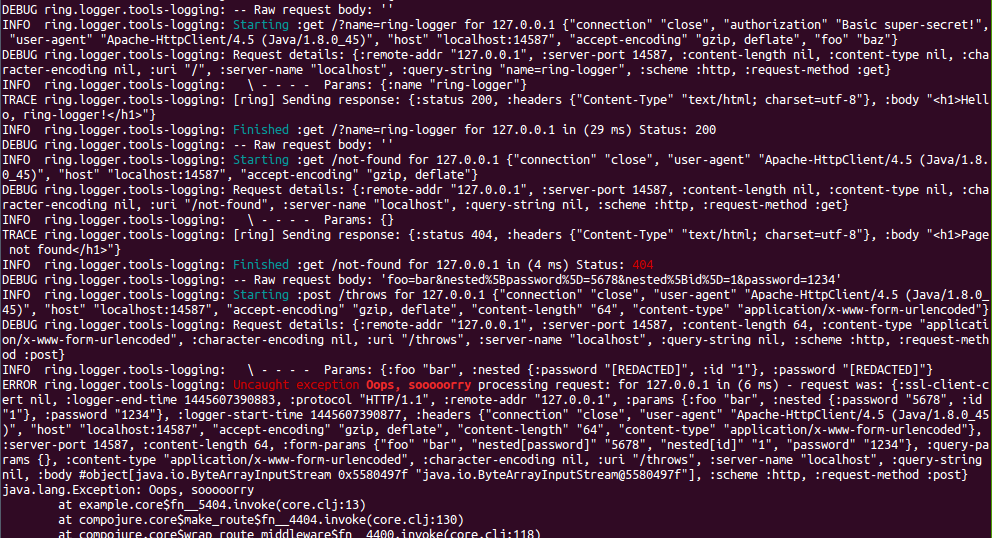
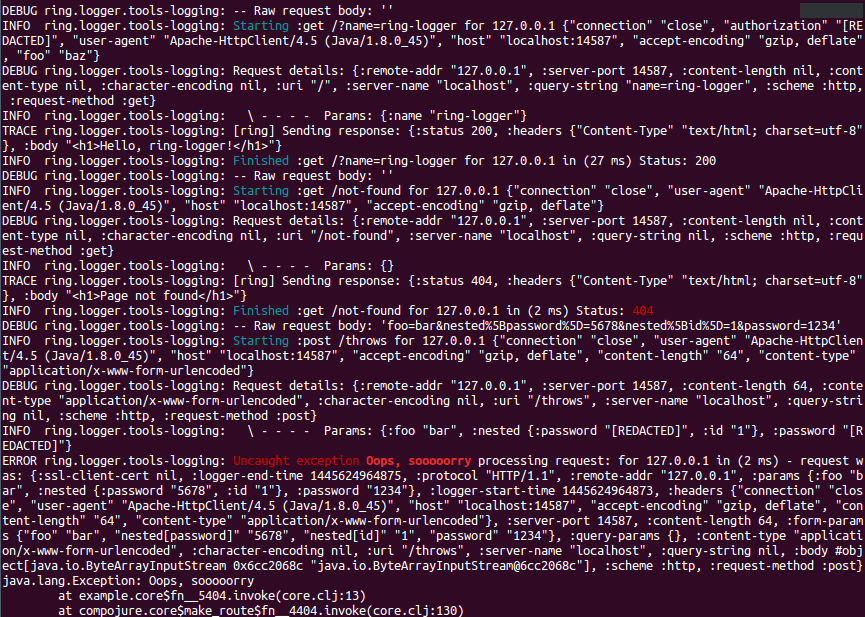
Fix redact authorization header: It is a string, not a keyword

diff --git a/README.md b/README.md
@@ -138,8 +138,8 @@ Sensitive information in params and headers can be redacted before it's sent to 
 **This is very important**: Nobody wants user passwords or authentication tokens to get to the logs and
 live there forever, in plain text, *right*?
 
-By default, ring-logger will redact any header or param named `password` or `authorization`. If you want ring-logger
-to redact other params you can configure the `redact-keys` option:
+By default, ring-logger will redact an authorization header or any param named `password` (at any nesting level).
+If you want ring-logger to redact other params you can configure the `redact-keys` option:
 
 ```clojure
 (wrap-with-logger app {:redact-keys #{:senha :token})
